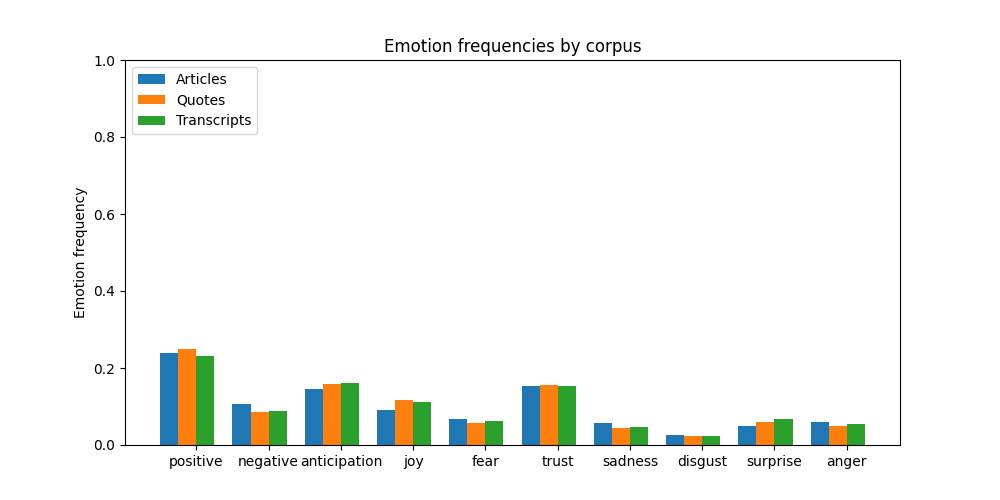
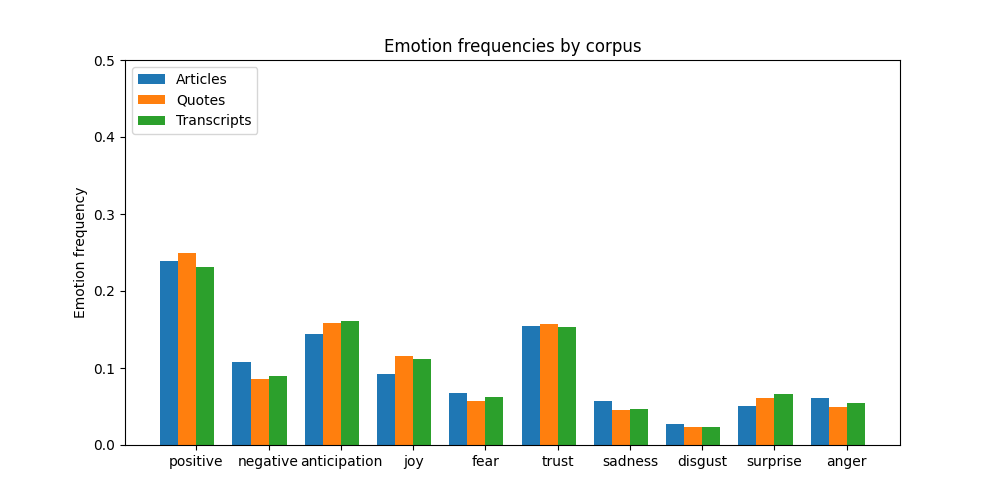
Four corpus comparison, average differences in emotion distributions

diff --git a/barchart.py b/barchart.py
@@ -1,6 +1,7 @@
 import matplotlib.pyplot as plt
 import numpy as np
 import sys
+import os
 
 emotions = ['positive', 'negative', 'anticipation', 'joy', 'fear', 'trust', 'sadness', 'disgust', 'surprise', 'anger']
 x = np.arange(len(emotions))
@@ -52,10 +53,107 @@ def three_corpora_chart():
     plt.title('Emotion frequencies by corpus')
     plt.xticks(x+width+(width/2), emotions)
     plt.legend(loc='upper left')
-    plt.ylim(0, 1)
+    plt.ylim(0, 0.5)
 
 
     plt.savefig('outputs/charts/three_corpus_comparison.png')
 
+# Chart that includes control group
+def four_corpora_chart():
+    width = 0.20
+    multiplier = 0
 
-three_corpora_chart()
+    # articles corpus
+    article_bars = x
+    article_file = open('outputs/aggregated data/articles.AGGREGATE.txt', 'r')
+    article_content = article_file.readlines()
+    article_dict = eval(article_content[3])
+    article_frequencies = []
+    article_file.close()
+
+    # quotes corpus
+    quote_bars = [i+width for i in article_bars]
+    quote_file = open('outputs/aggregated data/quotes.AGGREGATE.txt', 'r')
+    quote_content = quote_file.readlines()
+    quote_dict = eval(quote_content[3])
+    quote_frequencies = []
+    quote_file.close()
+    
+    # transcripts corpus
+    transcript_bars = [i+width for i in quote_bars]
+    transcript_file = open('outputs/aggregated data/transcripts.AGGREGATE.txt', 'r')
+    transcript_content = transcript_file.readlines()
+    transcript_dict = eval(transcript_content[3])
+    transcript_frequencies = []
+    transcript_file.close()
+
+    # control corpus
+    control_bars = [i+width for i in transcript_bars]
+    control_file = open('outputs/aggregated data/control.AGGREGATE.txt', 'r')
+    control_content = control_file.readlines()
+    control_dict = eval(control_content[3])
+    control_frequencies = []
+    control_file.close()
+    
+    # Collect values for emotion frequencies, in order of emotions list, for each corpus
+    for emotion in emotions:
+        article_frequencies.append(article_dict[emotion])
+        quote_frequencies.append(quote_dict[emotion])
+        transcript_frequencies.append(transcript_dict[emotion])
+        control_frequencies.append(control_dict[emotion])
+
+
+    plt.figure(figsize=(10,5))
+    # Configure bars for each corpus
+    plt.bar(article_bars, article_frequencies, width=width, label='Articles')
+    plt.bar(quote_bars, quote_frequencies, width=width, label='Quotes')
+    plt.bar(transcript_bars, transcript_frequencies, width=width, label='Transcripts')
+    plt.bar(control_bars, control_frequencies, width=width, label="Control")
+    
+    # Chart labels
+    plt.ylabel('Emotion distribution')
+    plt.title('Emotion distribution by corpus')
+    plt.xticks(x+width+(width/2), emotions)
+    plt.legend(loc='upper left')
+    plt.ylim(0, 1)
+
+
+    plt.savefig('outputs/charts/four_corpus_comparison.png')
+
+# Takes the differences in emotion distributions between two corpora as an average
+def average_difference(source_one, source_two):
+    file_one = open(f'outputs/aggregated data/{source_one}', 'r')
+    temp = file_one.readlines()
+    corpus_one = eval(temp[3])
+    
+    file_two = open(f'outputs/aggregated data/{source_two}', 'r')
+    temp2 = file_two.readlines()
+    corpus_two = eval(temp2[3])
+
+    file_one.close()
+    file_two.close()
+
+    total = 0
+
+    for emotion in emotions:
+        diff = abs(corpus_one[emotion] - corpus_two[emotion])
+        total += diff
+    
+    average = total / len(emotions)
+    return average
+
+# three_corpora_chart()
+
+
+
+
+if not os.path.isfile('outputs/aggregated data/distribution_differences.txt'):
+    with open('outputs/aggregated data/distribution_differences.txt', 'w') as file:
+        file.write('Average distribution differences between corpora:')
+        file.write('\nArticles vs. Transcripts: ' + str(average_difference('articles.AGGREGATE.txt', 'transcripts.AGGREGATE.txt')))
+        file.write('\nArticles vs. Quotes: ' + str(average_difference('articles.AGGREGATE.txt', 'quotes.AGGREGATE.txt')))
+        file.write('\nArticles vs. Control: ' + str(average_difference('articles.AGGREGATE.txt', 'control.AGGREGATE.txt')))
+        file.write('\nTranscripts vs. Quotes: ' + str(average_difference('transcripts.AGGREGATE.txt', 'quotes.AGGREGATE.txt')))
+        file.write('\nTranscripts vs. Control: ' + str(average_difference('transcripts.AGGREGATE.txt', 'control.AGGREGATE.txt')))
+
+four_corpora_chart()
